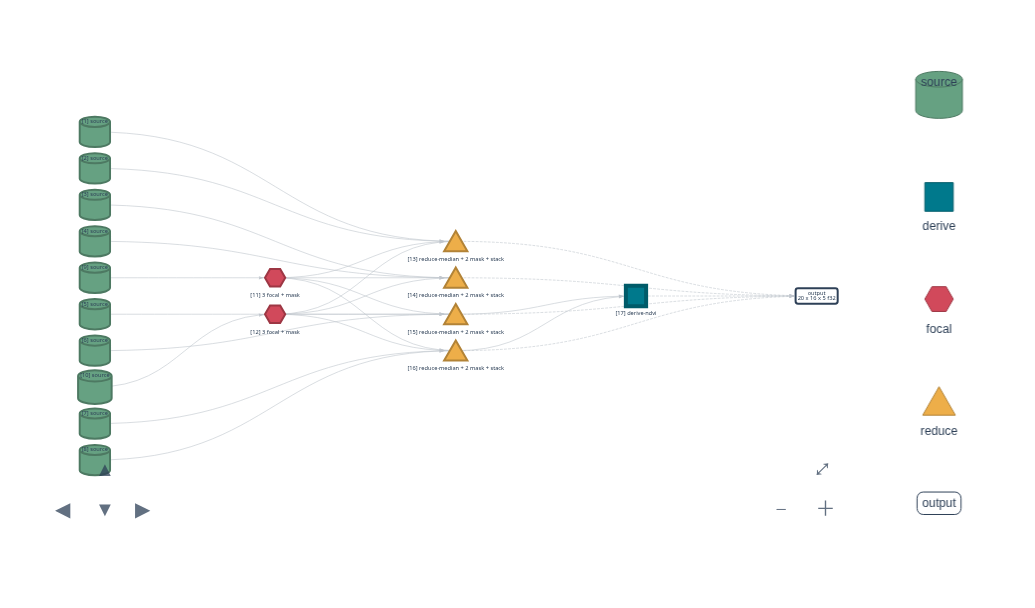
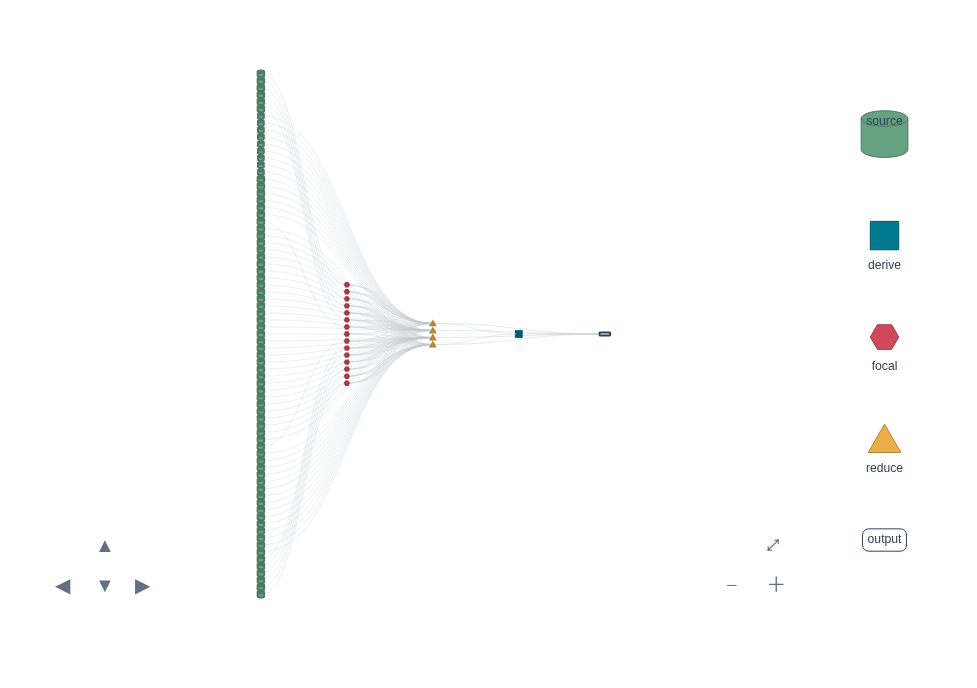
readme update

diff --git a/README.md b/README.md
@@ -169,12 +169,12 @@ draw(composite[["ndvi"]])    # the NDVI band's node tree
 #> └─ ƒ map  (2 inputs)  ×2
 #>    └─ ▸ median  over t  ×2
 #>       └─ ⬚ stack  along t
-#>          └─ ƒ map  (2 inputs)  ×15
+#>          └─ ✕ node  ×15
 #>             ├─ ◈ source  2536×1480 f32
 #>             └─ ◫ focal  r=3
 #>                └─ ◫ focal  r=2
 #>                   └─ ◫ focal  r=2
-#>                      └─ ƒ map
+#>                      └─ ✕ node
 #>                         └─ ◈ source  2536×1480 f32
 
 # preview() estimates a coarse grid from the graph and device, runs the pipeline
@@ -198,8 +198,8 @@ preview(a)     # multi-band  -> RGB (first three bands)
 <img src="man/figures/README-example-2.png" alt="" width="100%" />
 
 The plan itself is worth looking at. `plan_view()` renders it as an
-interactive DAG (static here; live in RStudio and on the pkgdown site):
-stages typed by what they compute, provenance on hover (assets,
+interactive DAG (static here; live when interactive and on the pkgdown
+site): stages typed by what they compute, provenance on hover (assets,
 acquisition dates, reducers), and dashed edges where bands pass through
 into the output. It shows the schedule you cannot see from the code:
 each QA slice’s mask predicate and morphological cleanup run as their
